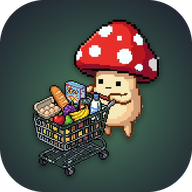
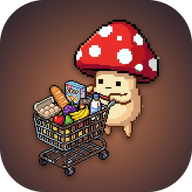
v2.16.1: fondo del ícono de BonaSuper en durazno

diff --git a/index.html b/index.html
@@ -1667,7 +1667,7 @@
   };
 
   // subir APP_VERSION y agregar una entrada acá en cada cambio que valga la pena avisar
-  const APP_VERSION = '2.16.0';
+  const APP_VERSION = '2.16.1';
   const CHANGELOG = {
     '1.1.0': [
       'Ahora te avisamos acá cuando la app tiene novedades, en vez de que te enteres por sorpresa.'
@@ -1889,6 +1889,9 @@
     ],
     '2.16.0': [
       'La app pasa a llamarse BonaSuper (antes Lista del Super) y estrena ícono: un honguito empujando el carrito del súper. Si la tenés en el inicio del celular, el nombre y el ícono nuevos aparecen al volver a agregarla.'
+    ],
+    '2.16.1': [
+      'El fondo del ícono de BonaSuper ahora es durazno en vez de verde, para distinguirlo de las otras apps de Bona.'
     ]
   };
   const SEEN_VERSION_KEY = 'lista_super_seen_version';

diff --git a/sw.js b/sw.js
@@ -1,7 +1,7 @@
 // Service Worker - BonaSuper
 // Cachea los archivos de la app la primera vez para que funcione sin internet después.
 
-const CACHE_NAME = 'lista-super-v64';
+const CACHE_NAME = 'lista-super-v65';
 const FILES_TO_CACHE = [
   './',
   './index.html',
